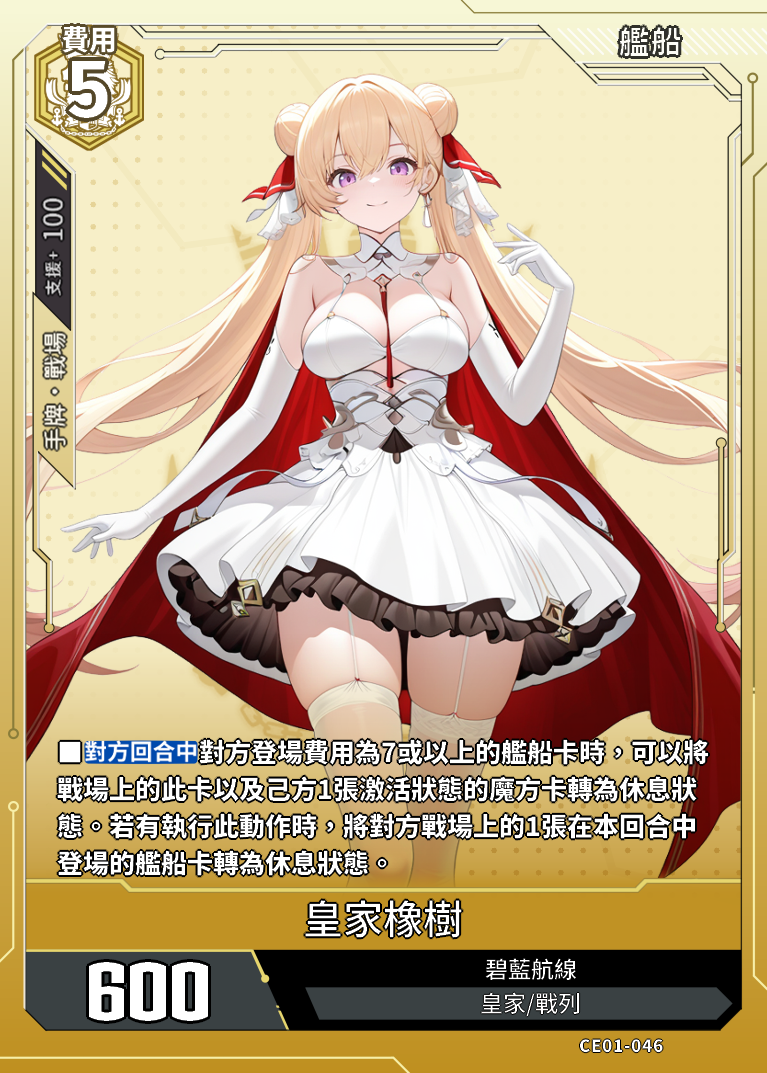
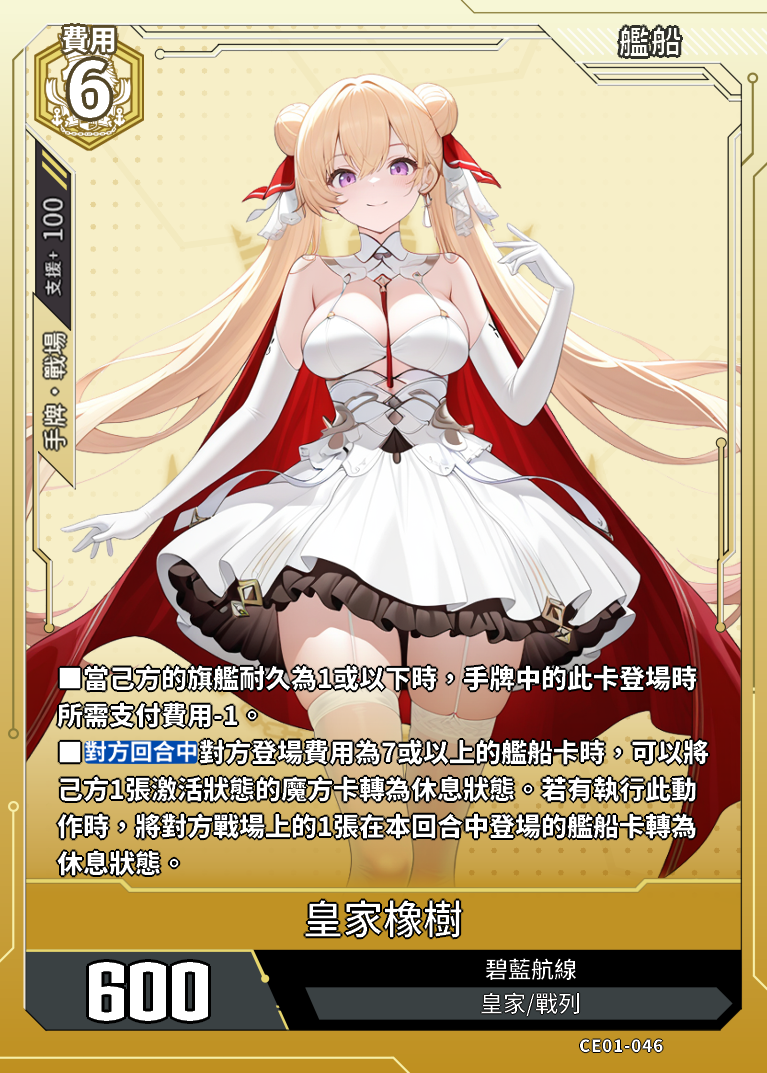
更新皇家橡樹

Changed region(s): [[0.06, 0.7074, 0.9296, 0.8304], [0.06, 0.6151, 0.9296, 0.6766], [0.09, 0.0308, 0.1499, 0.123]]

diff --git a/data.js b/data.js
@@ -22759,7 +22759,7 @@ const cards = [
             "支援範圍": "手牌·戰場",
             "支援值": "100"
         },
-        "card_effect": "■【對方回合中】對方登場費用為7或以上的艦船卡時，可以將戰場上的此卡以及己方1張激活狀態的魔方卡轉為休息狀態。若有執行此動作時，將對方戰場上的1張在本回合中登場的艦船卡轉為休息狀態。",
+        "card_effect": "■當己方的旗艦耐久為1或以下時，手牌中的此卡登場時所需支付費用-1。■【對方回合中】對方登場費用為7或以上的艦船卡時，可以將己方1張激活狀態的魔方卡轉為休息狀態。若有執行此動作時，將對方戰場上的1張在本回合中登場的艦船卡轉為休息狀態。",
         "acquisition_method": "CE01"
     },
 	{
